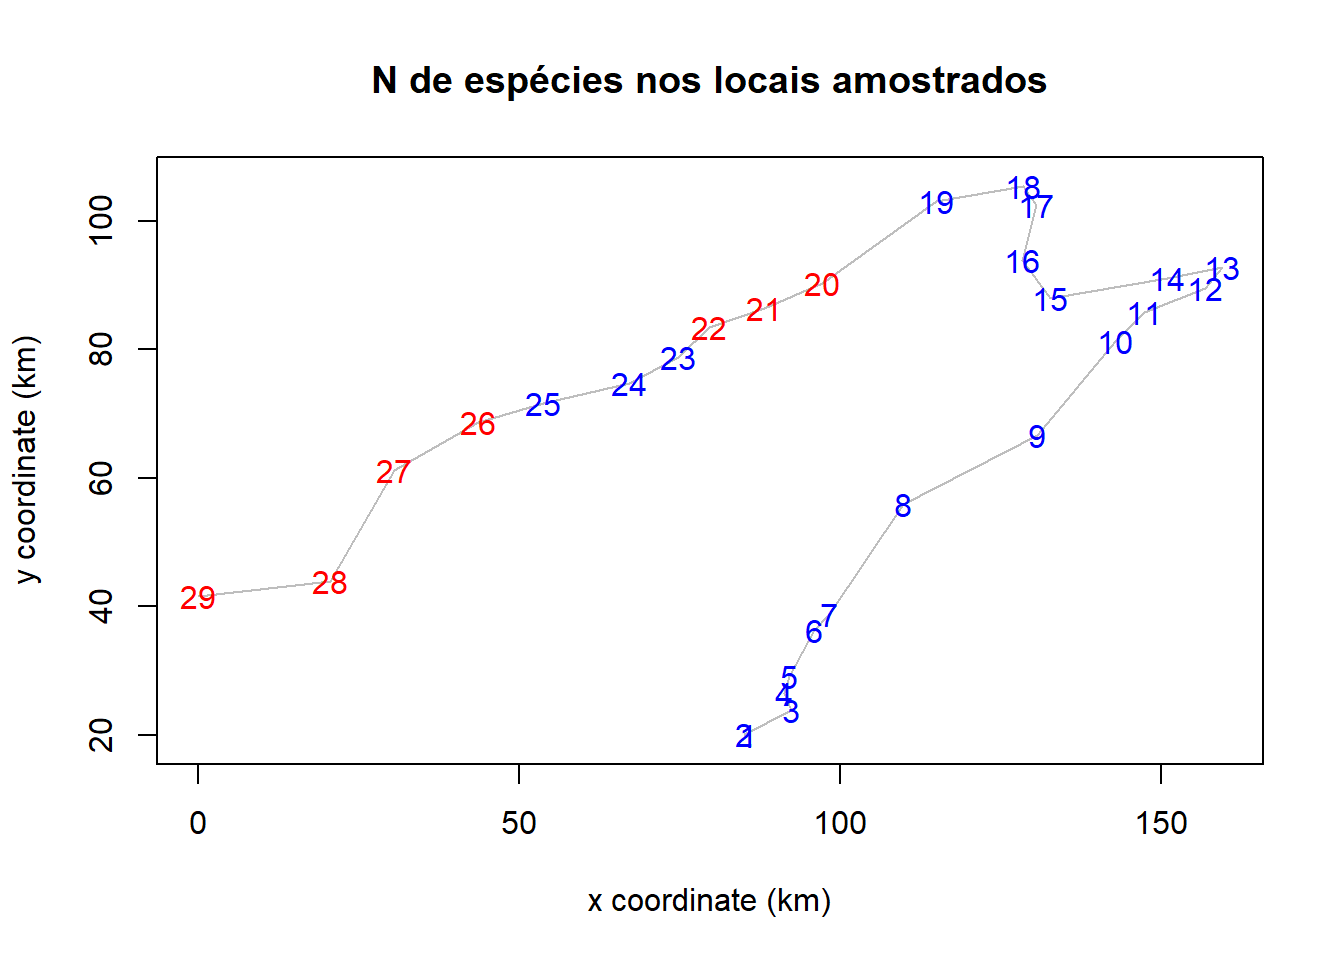
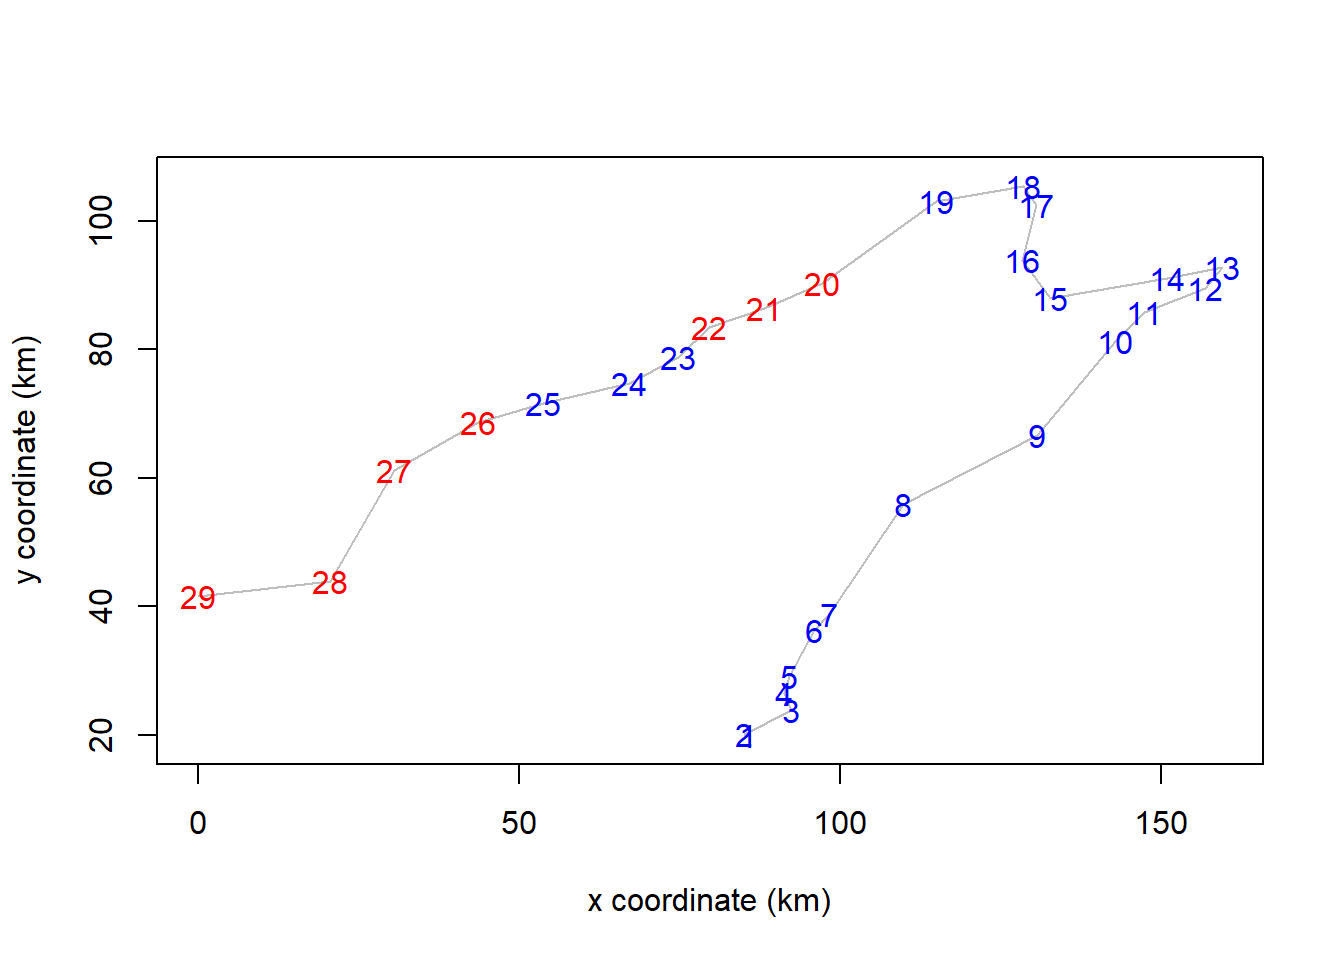
Aula3cluster(2)

Changed region(s): [[0.2812, 0.0625, 0.7812, 0.125]]

diff --git a/docs/Journal.html b/docs/Journal.html
@@ -851,7 +851,9 @@ labels_colors(clust_rio_euc2) &lt;- colorCode[order.dendrogram(clust_rio_euc2)]
 plot(clust_rio_euc2, main =&quot;foi punk pra conseguir colorir&quot;)</code></pre>
 <p><img src="Journal_files/figure-html/unnamed-chunk-20-1.png" width="672" /> Pela média das similaridades e pelo dendograma vemos que, possivelmente, maior descarga d’água contribui para uma maior similaridade entre os locais. Utilizando a distância euclidiana, foi obsevado que os locais com dfs&gt;250 apresentaram mais similaridade, e os com dfs&lt;100 apresentaram menos similaridade. Também é possível observar nos clusters do dendograma que, apesar dos locais geograficamente próximos serem mais similares, existem outliers, como os locais 10, 9 e 5.</p>
 <p>Isso pode ser dar pois as larvas planctônicas desses peixes são levadas na corrente d’água. Talvez os locais com mais descarga sejam mais similares entre si por conta disso: a corrente numa descarga mais forte é mais propensa a levar peixes de uma comunidade para outra, misturando as comunidades em locais com mais descarga e isolando as comunidades em locais com menos descarga.</p>
-<p>##Análise de Cluster</p>
+</div>
+<div id="análise-de-cluster" class="section level2">
+<h2>Análise de Cluster</h2>
 <p>Já como no útilmo exercício foi medida a distância pra spe, aqui vou utilizar o dendograma já feito pra ver os grupos.</p>
 <p>Só olhando, acho que vejo 5 grupos claros, divididos em 2 grandes grupos. Então vou tentar k=5.</p>
 <pre class="r"><code>grup_rio&lt;-cutree(clust_rio_euc, k=5) # olhando pro dendograma, acredito que dá pra divir em 5 grupos
@@ -921,7 +923,6 @@ rect.hclust(clust_rio_euc, k = 2, border = 2:5)</code></pre>
 <pre class="r"><code>plot(spa, 
   asp = 1, 
   type = &quot;n&quot;, 
-  main = &quot;N de espécies nos locais amostrados&quot;, 
   xlab = &quot;x coordinate (km)&quot;, 
   ylab = &quot;y coordinate (km)&quot;
 )
